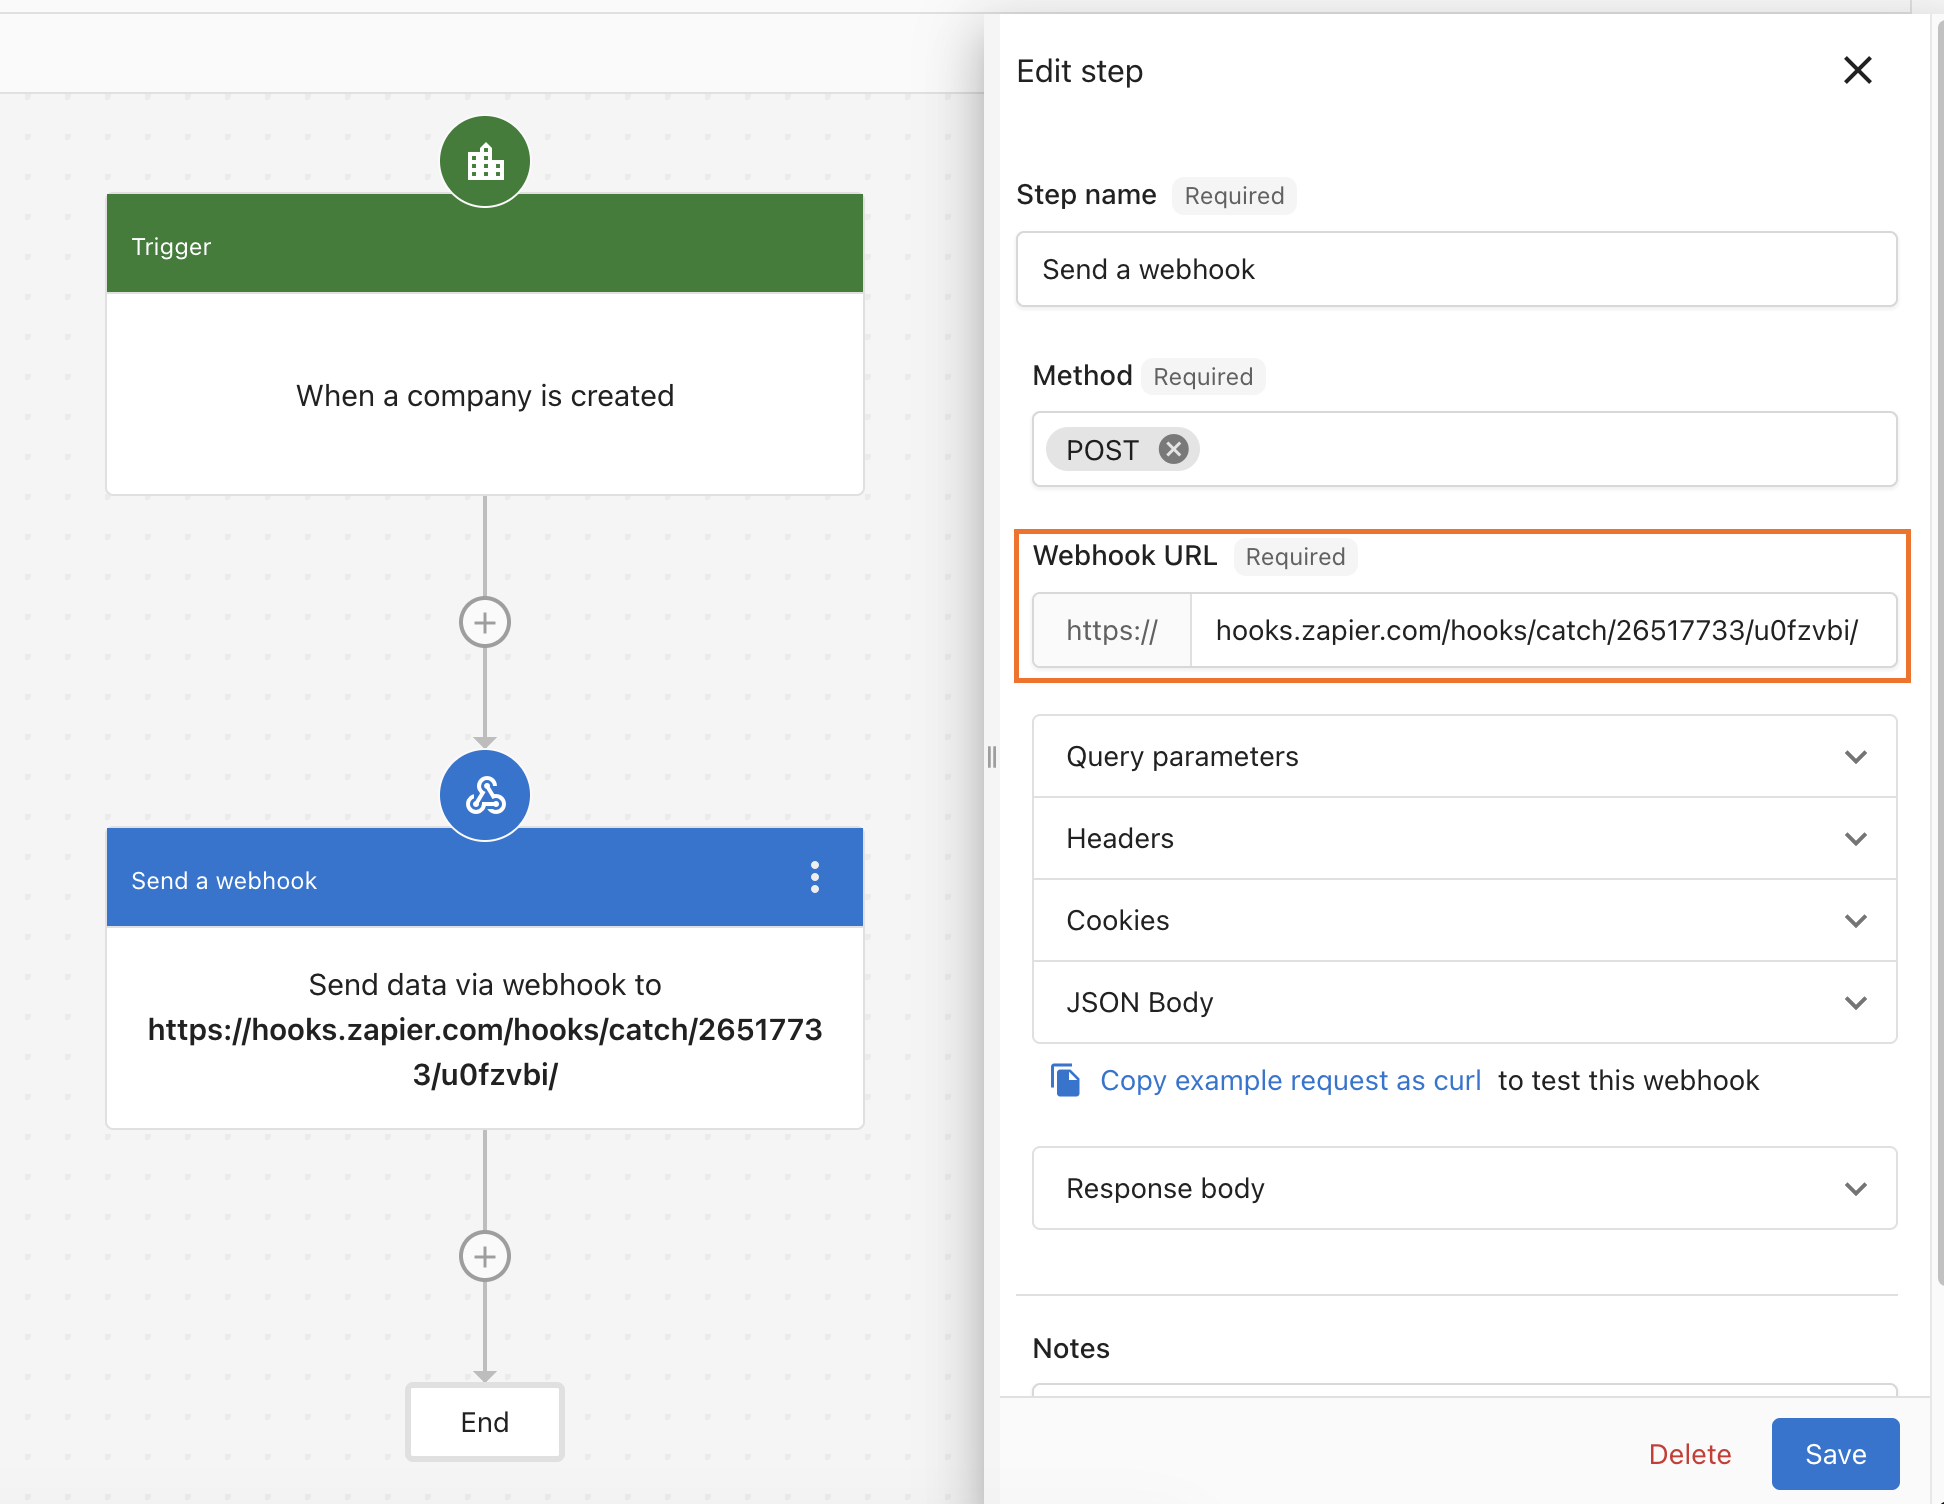
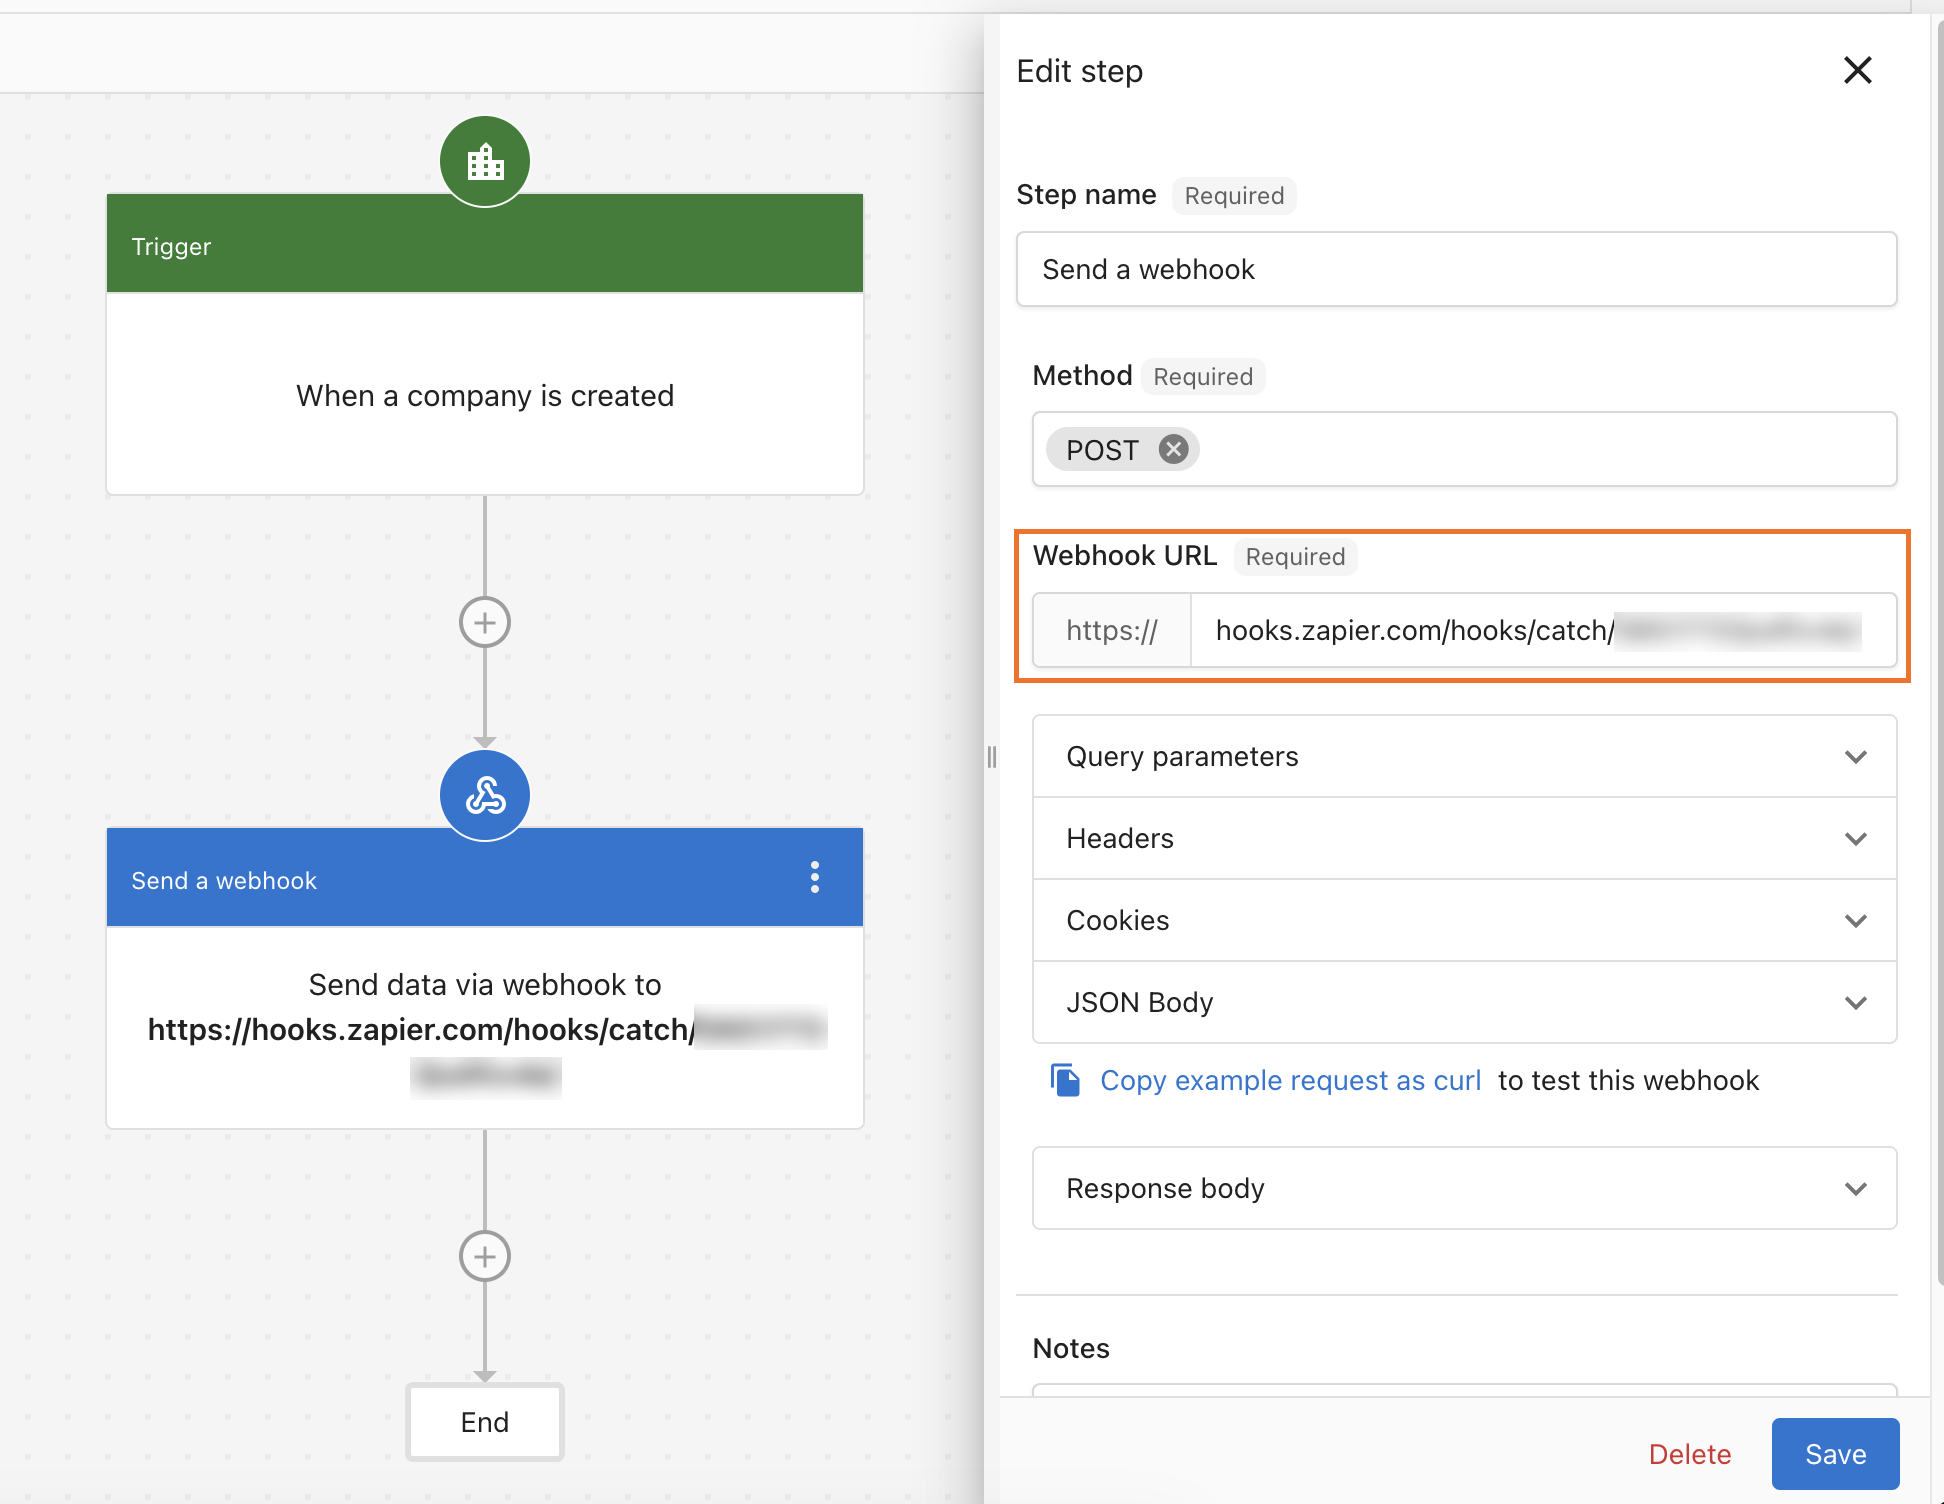
docs: update automations use cases and Zapier articles to match the live app

Changed region(s): [[0.3395, 0.6562, 0.4321, 0.7188], [0.216, 0.6875, 0.3086, 0.75], [0.8333, 0.4062, 0.9568, 0.4375]]

diff --git a/docusaurus/docs/business-app/automations/use-cases/action-messaging.md b/docusaurus/docs/business-app/automations/use-cases/action-messaging.md
@@ -10,10 +10,10 @@ product: automations
 audience: smb
 ---
 
-When a new lead comes in from chat, a quote request lands, or a VIP contact is tagged, the faster you respond, the better your chances of closing the deal. You can build automations that send SMS or email notifications the moment these events happen — no manual follow-up needed.
+When a new lead comes in from chat, a quote request lands, or a VIP contact is tagged, the faster you respond, the better your chances of closing the deal. You can build automations that send SMS or email notifications the moment these events happen, with no manual follow-up needed.
 
 :::note
-SMS notifications require Conversations AI | Pro. Plain-text email notifications require Conversations Pro.
+SMS notifications require Conversations AI | Pro or Premium. SMS is available only for businesses in the US and Canada.
 :::
 
 ## When to use this
@@ -29,15 +29,15 @@ SMS notifications require Conversations AI | Pro. Plain-text email notifications
 
 When Web Chat captures a lead, the person handling that lead gets an SMS right away with a personalized greeting and details about the new lead.
 
-1. **Trigger:** Set the trigger to **When Web Chat captures a lead**.
-2. **Action:** Add the **Send an SMS message to a phone number** step. Enter the phone number of the person handling leads (e.g. sales rep or owner).
-3. **Message:** Use the dynamic field inserter to greet the recipient by name and include lead details — for example, "Hi Sarah, you have a new lead! A task was created in the CRM and a link was emailed."
+1. **Trigger:** Set the trigger to `Web Chat captures a lead`.
+2. **Action:** Add the `Send an SMS message to a phone number` step. Enter the phone number of the person handling leads (for example, a sales rep or the owner).
+3. **Message:** Use the dynamic field inserter to greet the recipient by name and include lead details. For example: "Hi Sarah, you have a new lead! A task was created in the CRM and a link was emailed."
 
 When the automation runs, the SMS is sent immediately to the configured number with personalized content pulled from the CRM.
 
 <div style={{textAlign: 'center'}}>
 
-<img src={require('../img/automation-SMS.png').default} alt="Automation workflow: When Web Chat captures a lead trigger, Send an SMS message via Conversations step with SMS content and dynamic fields, then End." width="85%" />
+<img src={require('../img/automation-SMS.png').default} alt="SMS step panel with a new lead alert in SMS content that uses dynamic content, the Insert dynamic content button, and a 264 / 1000 character counter" width="45%" />
 
 </div>
 
@@ -45,28 +45,22 @@ When the automation runs, the SMS is sent immediately to the configured number w
 
 When a contact submits a signup form, send them a plain-text email to acknowledge their submission and set expectations.
 
-1. **Trigger:** Set the trigger to **When a form is submitted**.
-2. **Action:** Add the **Send a plain text email** step (via Conversations AI).
+1. **Trigger:** Set the trigger to `A form is submitted for a contact`.
+2. **Action:** Add the `Send a plain text email via Conversations` step.
 3. **Message:** Set the subject line and body. Use dynamic fields to personalize with the contact's name and relevant form details.
-
-<div style={{textAlign: 'center'}}>
-
-<img src={require('../img/automation-plain text email.png').default} alt="Automation workflow: When Newsletter signup form is submitted for a contact, Send a plain text email via Conversations AI, then End." width="50%" />
-
-</div>
 
 ## SMS options: contact vs. phone number
 
 | Step | Sends to | When to use |
 |------|----------|-------------|
-| Send SMS | The contact who triggered the automation | Notifying the lead or customer directly |
-| Send an SMS message to a phone number | Any phone number you specify | Alerting team members or numbers not in your CRM |
+| `Send an SMS message via Conversations` | The contact who triggered the automation | Notifying the lead or customer directly |
+| `Send an SMS message to a phone number` | Any phone number you specify | Alerting team members or numbers not in your CRM |
 
 ## Tips
 
-- Keep SMS messages short and actionable — include your business name the first time you text a contact
+- Keep SMS messages short and actionable. Include your business name the first time you text a contact
 - Use clear email subjects with one primary call-to-action
-- Add **Conditions** to limit when notifications fire (e.g. only for new leads, only during business hours)
+- Add conditions to limit when notifications fire (for example, only for new leads or only during business hours). In the trigger, select `Add conditions for starting this automation`, or add an `If/else branch` step.
 - Personalize messages with the contact's name and relevant details using [dynamic content](../dynamic-content-in-automations)
-- If messages fail to send, check the **Activity** tab — make sure required fields (phone for SMS, email for plain-text email) are present on the contact
+- If messages fail to send, check the `Activity` tab and make sure required fields (phone for SMS, email for plain-text email) are present on the contact
 
